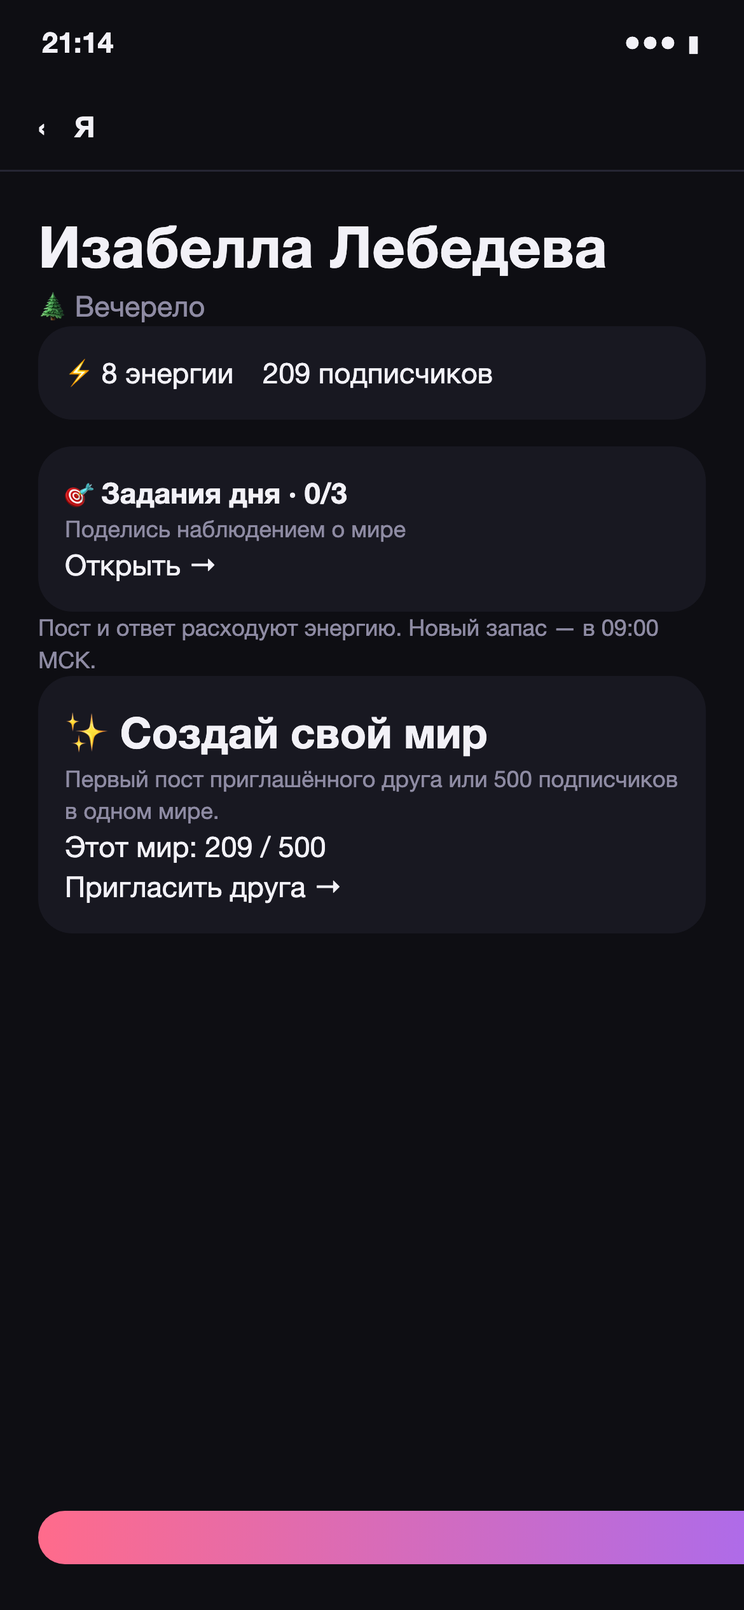
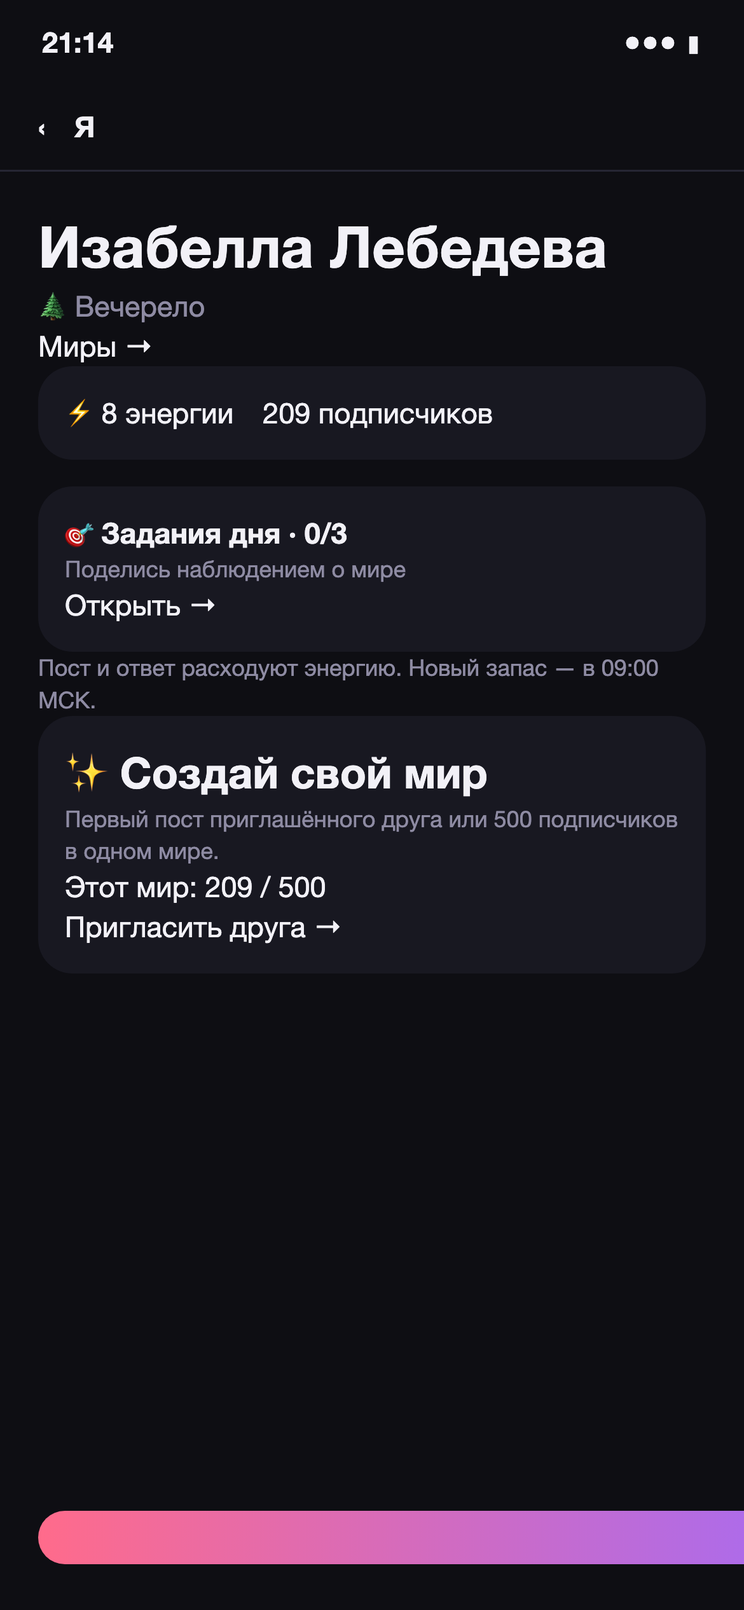
Clarify world navigation and confirmed unlock celebration #141 #124 #135

Changed region(s): [[0.0308, 0.1872, 0.8923, 0.5928], [0.8, 0.3744, 0.8923, 0.4368]]

diff --git a/frontend/src/screens/turn.tsx b/frontend/src/screens/turn.tsx
@@ -85,10 +85,7 @@ function Live() {
         if (apiBaseUrl) {
           const latest = await refresh()
           if (latest) confirmedResult = { ...e.result, completedWants: latest.wants.filter(want => want.done && p.wants.some(before => before.id === want.id && !before.done)).map(({ id, text, reward }) => ({ id, text, reward })) }
-          if (!p.hitOwnWorldMilestone && latest?.hitOwnWorldMilestone) {
-            selectDraftOwner(p.id); setWorldDraft({ definition: blankWorld(), previewOnly: true, address: p.address, group: p.ageBand === '14-17' ? '14-17' : '18+', ageBand: p.ageBand, reason: 'Создание своего мира открыто — можно придумать свою историю' })
-            nav.replace('05-7b_own_world', { world: 'own' }); return
-          }
+
         }
         else patch({ postsLeft: Math.max(0, p.postsLeft - 1), subs: Math.max(0, p.subs + e.result.delta) })
         nav.replace(e.result.viral ? '02-5_viral' : e.result.flop ? '02-4_flop' : '02-3_result', { result: confirmedResult, post })
@@ -166,7 +163,6 @@ const haptic = (kind: 'success' | 'warning' | 'light') => { if (!inTelegram) ret
 
 function ResultCard({ r, post, theme }: { r: PostResult; post: Post; theme: 'normal' | 'flop' | 'viral' }) {
   const nav = useNav()
-  const playerWorld = usePlayer().world
   const viral = theme === 'viral'
   const shown = useCount(Math.abs(r.delta))
   const additive = r.whys.filter(why => /^[+−-]\d+(?:[.,]\d+)?$/.test(why.value))
@@ -181,11 +177,11 @@ function ResultCard({ r, post, theme }: { r: PostResult; post: Post; theme: 'nor
           <div className="small" style={{ letterSpacing: '.06em', color: viral ? 'var(--gift)' : 'var(--muted2)' }}>{viral ? '🌊 ПОСТ ЗАЛЕТЕЛ В РЕКИ' : 'ИТОГ ПОСТА'}</div>
           <div style={{ fontSize: 64, fontWeight: 900, lineHeight: 1.1 }} className={r.delta >= 0 ? 'up' : 'down'}>{r.delta >= 0 ? '+' : '−'}{fmt(shown)}</div>
           <div className="muted2" style={{ marginBottom: 12 }}>{plural(shown, 'подписчик', 'подписчика', 'подписчиков')}</div>
-          <div style={{ fontSize: 18, fontWeight: 800, marginBottom: 12 }}>{r.headline}</div>
+          <div style={{ fontSize: 18, fontWeight: 800, marginBottom: 12 }}>{viral ? r.headline : r.delta > 0 ? "Твой пост заметили ✨" : r.headline}</div>
           {viral && <div className="confetti" aria-hidden>{Array.from({ length: 18 }, (_, i) => <i key={i} style={{ left: `${(i * 53) % 100}%`, animationDelay: `${(i % 6) * 0.12}s`, background: ['#FF6B8B', '#9B6BFF', '#FFD66B', '#6BFFB8'][i % 4] }} />)}</div>}
-          {r.whys[0] && <div className="result-reason"><div className="small eyebrow">{contentOf(playerWorld).stars.find(star => star.avatarSeed === r.bestComment?.avatar)?.name ?? "Реакция героя"}</div><p>{r.whys[0].label}</p></div>}
+
           <div className="result-awards" aria-live="polite">{r.completedWants?.map(want => <div className="result-task" key={want.id}><span>✅</span><div><b>Задание выполнено</b><p>{want.text}</p><span className="small">{want.reward}</span></div></div>)}{r.ribbons.map(award => <Ribbon key={award.title} icon={award.icon} title={award.title} sub={award.sub} />)}</div>
-          <details className="result-details"><summary>За что этот результат?</summary>          <div>{r.whys.map((w, i) => <span key={w.label} className="chip pop" style={{ background: '#22222D', animationDelay: `${0.85 + i * 0.15}s` }}>{({ star: '⭐', brave: '🔥', humor: '😂', topic: '🎯', reach: '👁' } as Record<string, string>)[w.icon] ?? w.icon} {w.label} {(!/^[+−-]/.test(w.value) || explainsDelta) && <b className={/^[+×]/.test(w.value) ? 'up' : 'down'}>{w.value}</b>}</span>)}</div>
+          <details className="result-details"><summary>Разбор поста</summary>          <div>{r.whys.map((w, i) => <span key={w.label} className="chip pop" style={{ background: '#22222D', animationDelay: `${0.85 + i * 0.15}s` }}>{({ star: '⭐', brave: '🔥', humor: '😂', topic: '🎯', reach: '👁' } as Record<string, string>)[w.icon] ?? w.icon} {w.label} {(!/^[+−-]/.test(w.value) || explainsDelta) && <b className={/^[+×]/.test(w.value) ? 'up' : 'down'}>{w.value}</b>}</span>)}</div>
           {r.bestComment && <div className="row" style={{ margin: '8px 0 12px' }}><Avatar seed={r.bestComment.avatar} size={28} /><span className="small">«{r.bestComment.text}»</span></div>}
           </details>
           {viral ? <>
@@ -194,7 +190,7 @@ function ResultCard({ r, post, theme }: { r: PostResult; post: Post; theme: 'nor
             <Button secondary onClick={() => nav.replace('03-5_stage')}>Дальше</Button>
           </> : <>
             <Button onClick={() => nav.replace('02-6_thread', { post })}>Посмотреть реакции</Button>
-            {theme === 'normal' && <><button onClick={() => nav.push('02-7_share', { post })} style={{ display: 'block', margin: '10px auto 4px', background: 'none', border: 'none', color: 'var(--lilac)' }}>Поделиться в чат или сторис ›</button>
+            {theme === 'normal' && <><button onClick={() => nav.push('02-7_share', { post })} aria-label="Поделиться постом" className="result-share">↗ Поделиться</button>
               </>}
           </>}
         </div>
@@ -320,7 +316,7 @@ function Thread() {
   post.comments.forEach(append)
   return (
     <div className="screen no-tab">
-      <TopBar onBack={goBack} title="Реакции" rightPlain right={<button className="thread-exit" onClick={() => nav.replace('03-3_feed')}>В ленту →</button>} />
+      <TopBar title="Реакции" rightPlain right={<button className="thread-exit" onClick={() => nav.replace('03-5_stage')}>В канал →</button>} />
       <div className="pad">
         <div className="card" style={{ marginBottom: 12 }}>{post.text}<div style={{ marginTop: 8 }}>{post.reactions.map(reaction => <span key={reaction.emoji} className="react">{reaction.emoji} {reaction.count}</span>)}</div></div>
         {canReply && showHelp && <div className="thread-help"><span className="thread-help-icon">💬</span><div><b>Герой ждёт ответа</b><p>Нажми «Ответить» под репликой и продолжи историю.</p><span className="small muted">Ответ · 1 энергия</span></div><button aria-label="Скрыть подсказку" onClick={dismissHelp}>×</button></div>}
@@ -333,6 +329,7 @@ function Thread() {
         {sending && <div className="card" role="status" aria-live="polite"><div className="small muted">{target?.author ?? 'Звезда'} готовит ответ…</div><div className="live-current" aria-hidden="true"><span /></div>{preview && <><p>{preview}</p><div className="small muted">Ответ ещё не опубликован</div></>}</div>}
         {target && <div className="small muted" style={{ marginBottom: 8 }}>Отвечаешь: {target.author}</div>}
         {replyError && <div className="small" role="alert" style={{ color: 'var(--accent)', marginBottom: 12 }}>{replyError}</div>}
+        <Button secondary disabled={sending} onClick={() => nav.replace('02-1_compose')}>Написать следующий пост</Button>
       </div>
       {canReply && <div className="bottom-cta" style={{ flexDirection: 'row' }}>
         <div className="card" style={{ flex: 1, padding: '12px 14px' }}><input className="thread-reply-input" value={draft.text} onChange={event => edit({ text: event.target.value })} placeholder={draft.commentId ? 'Ответ · 1 энергия' : 'Выбери комментарий'} maxLength={1000} disabled={!draft.commentId || sending} /></div>

diff --git a/frontend/src/screens/worldWizard.tsx b/frontend/src/screens/worldWizard.tsx
@@ -14,13 +14,13 @@ import type { AgeBand } from '../app/ageBand'
 
 export function ChooseWorld() {
   const nav = useNav(); const { player, setPlayer } = useStore()
-  const [owned, setOwned] = useState<WorldDocument[]>([])
+  const [owned, setOwned] = useState<WorldDocument[]>(() => api.ownedWorldsSnapshot() ?? [])
   const [error, setError] = useState('')
-  useEffect(() => { if (player) api.ownedWorlds().then(setOwned).catch(() => setError('Не получилось загрузить твои миры.')) }, [player?.id]) // eslint-disable-line react-hooks/exhaustive-deps
+  useEffect(() => { let alive = true; if (player) api.ownedWorlds().then(found => { if (alive) setOwned(found) }).catch(() => { if (alive) setError('Не получилось загрузить твои миры.') }); return () => { alive = false } }, [player?.id]) // eslint-disable-line react-hooks/exhaustive-deps
   function start(world?: WorldId, previewOnly = false) {
     selectDraftOwner(player?.id ?? 'onboarding')
     const definition = world ? worldDefinitionOf(world) : blankWorld()
-    setWorldDraft({ definition, heroOrder: definition.stars.map(star => star.id), advanced: false, previewOnly, address: player?.address ?? 'nick', group: player?.ageBand ? (player.ageBand === '14-17' ? '14-17' : '18+') : (nav.params.group as '14-17' | '18+') ?? '14-17', ageBand: player?.ageBand ?? nav.params.ageBand as AgeBand | undefined })
+    setWorldDraft({ definition, heroOrder: definition.stars.map(star => star.id), advanced: !world && !previewOnly, previewOnly, address: player?.address ?? 'nick', group: player?.ageBand ? (player.ageBand === '14-17' ? '14-17' : '18+') : (nav.params.group as '14-17' | '18+') ?? '14-17', ageBand: player?.ageBand ?? nav.params.ageBand as AgeBand | undefined })
     nav.push(world ? '01-3b_world_overview' : '05-7b_own_world', { world: definition.balanceKey })
   }
   return <div className="screen no-tab"><TopBar title="Выбери мир" onBack={nav.canBack ? nav.back : undefined} />
@@ -31,7 +31,7 @@ export function ChooseWorld() {
         {art && <div className="world-cover-image"><img src={art.cover} alt="" loading="lazy" /><span className="world-genre">{world.emoji} {art.genre}</span></div>}
         <div className="world-cover-copy"><div className="row"><b>{world.title}</b><span className="small muted">{['', 'Легко', 'Средне', 'Сложно'][world.difficulty]}</span></div><p>{art?.pitch ?? world.summary}</p><div className="world-roster">{definition.stars.slice(0, 3).map(star => <Avatar key={star.id} seed={star.avatarSeed} avatarStyle={definition.avatarStyle} profile={{ address: star.appearanceProfile === 'masculine' ? 'he' : star.appearanceProfile === 'feminine' ? 'she' : 'nick', ageBand: star.ageBand }} size={26} />)}<span>Знакомиться с миром →</span></div></div>
       </button> })}</div>
-      <div className="card own-world-unlock"><h2>✦ Создай свой мир</h2>{player?.hitOwnWorldMilestone ? <><p className="small muted">Придумай место, героев и начало истории.</p><Button onClick={() => start(undefined, true)}>Создать свой мир</Button></> : <><p className="small muted own-unlock-summary">Откроется после 500 подписчиков в одном канале или после первого поста приглашённого друга.</p>{player && <><progress aria-label="Подписчики до открытия своего мира" value={Math.min(500, Math.max(player.subs, ...owned.map(world => world.subscribers)))} max={500} /><span className="small muted">{Math.min(500, Math.max(player.subs, ...owned.map(world => world.subscribers)))} / 500</span><button className="text-link" onClick={() => nav.push('04-3_invite')}>Пригласить друга →</button></>}</>}
+      <div className="card own-world-unlock"><h2>✦ Создай свой мир</h2>{player?.hitOwnWorldMilestone ? <><p className="small muted">Придумай место, героев и начало истории.</p><Button onClick={() => start()}>Создать свой мир</Button></> : <><p className="small muted own-unlock-summary">Откроется после 500 подписчиков в одном канале или после первого поста приглашённого друга.</p>{player && <><progress aria-label="Подписчики до открытия своего мира" value={Math.min(500, Math.max(player.subs, ...owned.map(world => world.subscribers)))} max={500} /><span className="small muted">{Math.min(500, Math.max(player.subs, ...owned.map(world => world.subscribers)))} / 500</span><button className="text-link" onClick={() => nav.push('04-3_invite')}>Пригласить друга →</button></>}</>}
         {isDevWorldPrototype && new URLSearchParams(location.search).has('devtools') && <details className="editor-extra"><summary>DEV: пример настройки</summary><Button secondary onClick={() => start(undefined, true)}>Попробовать быструю настройку · DEV</Button></details>}
       </div>
       {error && <p role="alert">{error}</p>}

diff --git a/frontend/src/screens/day.tsx b/frontend/src/screens/day.tsx
@@ -10,6 +10,7 @@ import { runtimeConfig } from '../app/runtimeConfig'
 import { SkillHelp } from '../ui/SkillHelp'
 import { usePlayer, useStore } from '../app/store'
 import { Avatar, Bubble, Button, Card, Chip, Gift, Segmented, SkillBar, Sheet, TopBar, fmt, short } from '../ui'
+import { beginOwnWorld } from '../app/worldDraft'
 import { ChannelHead, Home } from './onboarding'
 import { register } from '.'
 import { TextField } from '../ui/TextField'
@@ -257,13 +258,13 @@ function Me() {
   return (
     <div className="screen">
       <div className="top" style={{ border: 'none' }}><b style={{ fontSize: 18 }}>Я</b><button className="pill" onClick={() => nav.push('05-8_settings')} style={{ border: 'none' }}>⚙ Настройки</button></div>
-      <div style={{ padding: '0 16px', textAlign: 'center' }}><Avatar seed={p.handle} size={64} style={{ margin: '0 auto 6px' }} /><b style={{ fontSize: 18 }}>{p.name}</b><div className="muted small">{worldOf(p.world).emoji} {worldOf(p.world).title}</div></div>
+      <div style={{ padding: '0 16px', textAlign: 'center' }}><Avatar seed={p.handle} size={64} style={{ margin: '0 auto 6px' }} /><b style={{ fontSize: 18 }}>{p.name}</b><div className="small muted profile-world-name">{worldOf(p.world).emoji} {worldOf(p.world).title}</div><button className="worlds-entry profile-worlds-entry" onClick={() => nav.push('01-3_world')}>Миры →</button></div>
       <div className="pad">
         <div className="profile-stats">
           {[[`⚡ ${p.postsLeft}`, 'энергии'], [fmt(p.subs), 'подписчиков']].map(([v, l]) => <Card key={l} style={{ padding: 14, textAlign: 'center' }}><div style={{ fontWeight: 800, fontSize: 16 }}>{v}</div><div className="small muted">{l}</div></Card>)}
         </div>
         <div className="profile-task-row"><div><b>🎯 Задания дня · {p.wants.filter(w => w.done).length}/{p.wants.length}</b><p className="small muted">{p.wants.find(w => !w.done)?.text ?? "Все задания выполнены"}</p></div><button className="text-link small" onClick={() => nav.push('02-1_compose')}>Открыть →</button></div><p className="small muted energy-help">Пост и ответ расходуют энергию. Новый запас — в 09:00 МСК.</p>
-        <Card style={{ marginBottom: 18 }}><b>{p.hitOwnWorldMilestone ? '✨ Свой мир открыт' : '✨ Создай свой мир'}</b><p className="small muted">{p.hitOwnWorldMilestone ? 'Доступ подтверждён. Можно придумать свою историю.' : 'Первый пост приглашённого друга или 500 подписчиков в одном мире.'}</p>{!p.hitOwnWorldMilestone && <><progress aria-label="Подписчики до открытия своего мира" value={Math.min(500, p.subs)} max={500} /><div className="small muted">Этот мир: {Math.min(500, p.subs)} / 500</div></>}<button className="text-link" onClick={() => nav.push(p.hitOwnWorldMilestone ? '01-3_world' : '04-3_invite')}>{p.hitOwnWorldMilestone ? 'Выбрать историю →' : 'Пригласить друга →'}</button></Card>
+        <Card style={{ marginBottom: 18 }}><b>{p.hitOwnWorldMilestone ? '✨ Свой мир открыт' : '✨ Создай свой мир'}</b><p className="small muted">{p.hitOwnWorldMilestone ? 'Доступ подтверждён. Можно придумать свою историю.' : 'Первый пост приглашённого друга или 500 подписчиков в одном мире.'}</p>{!p.hitOwnWorldMilestone && <><progress aria-label="Подписчики до открытия своего мира" value={Math.min(500, p.subs)} max={500} /><div className="small muted">Этот мир: {Math.min(500, p.subs)} / 500</div></>}<button className="text-link" onClick={() => { if (p.hitOwnWorldMilestone) { beginOwnWorld(p); nav.push('05-7b_own_world', { world: 'own' }) } else nav.push('04-3_invite') }}>{p.hitOwnWorldMilestone ? 'Создать свой мир →' : 'Пригласить друга →'}</button></Card>
         <Card style={{ marginBottom: 10 }}>
           <div className="row" style={{ justifyContent: 'space-between', marginBottom: 8 }}><b>Серия {p.streak.days} дня</b><span className="small" style={{ color: 'var(--gift)' }}>{p.streak.nextReward}</span></div>
           <div style={{ display: 'flex', gap: 6 }}>{DAYS.map((d, i) => <div key={d} style={{ flex: 1, textAlign: 'center' }}><div style={{ height: 30, borderRadius: 9, display: 'flex', alignItems: 'center', justifyContent: 'center', fontSize: 14, ...(p.streak.week[i] ? { background: 'var(--grad)' } : i === today ? { border: '2px dashed var(--accent)' } : { background: '#20202B' }) }}>{p.streak.week[i] ? '🔥' : i === today ? '?' : ''}</div><div className="small muted" style={{ marginTop: 3 }}>{d}</div></div>)}</div>

diff --git a/frontend/src/app/store.tsx b/frontend/src/app/store.tsx
@@ -4,7 +4,8 @@ import { api } from '../api/client'
 import type { Player } from '../api/types'
 
 export type PlayerState = 'loading' | 'ready' | 'missing' | 'failed'
-interface Store { player: Player | null; playerState: PlayerState; setPlayer: (p: Player) => void; patch: (p: Partial<Player>) => void; refresh: () => Promise<Player | undefined> }
+interface Store { player: Player | null; playerState: PlayerState; setPlayer: (p: Player) => void; patch: (p: Partial<Player>) => void; refresh: () => Promise<Player | undefined>; unlockCelebration: boolean; dismissUnlockCelebration: () => void }
+const unlockSeen = new Set<string>()
 const Ctx = createContext<Store>(null!)
 export const useStore = () => useContext(Ctx)
 export const usePlayer = () => useContext(Ctx).player!
@@ -12,20 +13,37 @@ export const usePlayer = () => useContext(Ctx).player!
 export function StoreProvider({ children }: { children: ReactNode }) {
   const [player, setPlayerValue] = useState<Player | null>(null)
   const [playerState, setPlayerState] = useState<PlayerState>('loading')
-  const setPlayer = (value: Player) => { selectDraftOwner(value.id); setPlayerValue(value); setPlayerState('ready') }
+  const [unlockPlayerId, setUnlockPlayerId] = useState<string | null>(null)
+  const setPlayer = useCallback((value: Player) => {
+    selectDraftOwner(value.id); setPlayerValue(value); setPlayerState('ready')
+    let seen = unlockSeen.has(value.id)
+    try { seen ||= localStorage.getItem(`reki:own-world-unlock-seen:${value.id}`) === '1' } catch { /* session fallback */ }
+    setUnlockPlayerId(value.hitOwnWorldMilestone && !seen ? value.id : null)
+  }, [])
+  const dismissUnlockCelebration = () => {
+    if (unlockPlayerId) {
+      unlockSeen.add(unlockPlayerId)
+      try { localStorage.setItem(`reki:own-world-unlock-seen:${unlockPlayerId}`, '1') } catch { /* session fallback */ }
+    }
+    setUnlockPlayerId(null)
+  }
   /** Reconciles player state with /me. On failure keeps an already ready player untouched. */
   const refresh = useCallback(async () => {
     try {
       const next = await api.me()
-      selectDraftOwner(next.id)
-      setPlayerValue(next)
-      setPlayerState('ready')
+      setPlayer(next)
       return next
     } catch (e) {
       selectDraftOwner(api.playerId() ?? 'onboarding')
       setPlayerState(prev => prev === 'ready' ? 'ready' : (e as { status?: number })?.status === 404 ? 'missing' : 'failed')
     }
-  }, [])
+  }, [setPlayer])
   useEffect(() => { void refresh() }, [refresh])
-  return <Ctx.Provider value={{ player, playerState, setPlayer, patch: p => setPlayerValue(cur => cur && { ...cur, ...p }), refresh }}>{children}</Ctx.Provider>
+  useEffect(() => {
+    const check = () => { if (!document.hidden && api.hasPlayer()) void refresh() }
+    window.addEventListener('focus', check); document.addEventListener('visibilitychange', check)
+    const timer = window.setInterval(check, 30000)
+    return () => { clearInterval(timer); window.removeEventListener('focus', check); document.removeEventListener('visibilitychange', check) }
+  }, [refresh])
+  return <Ctx.Provider value={{ player, playerState, setPlayer, patch: p => setPlayerValue(cur => cur && { ...cur, ...p }), refresh, unlockCelebration: !!unlockPlayerId, dismissUnlockCelebration }}>{children}</Ctx.Provider>
 }

diff --git a/frontend/src/api/client.ts b/frontend/src/api/client.ts
@@ -13,6 +13,7 @@ import type { PlayerDocument, Challenge, ChannelPost, Dm, FeedItem, Friend, Game
 
 let sessionPlayer: Player | undefined
 let sessionIdentity: PlayerDocument | undefined
+let ownedWorldSnapshot: WorldDocument[] | undefined
 let templates: WorldDocument[] = []
 let templatesRequest: Promise<void> | undefined
 const inWorld = (path: string): string => {
@@ -86,9 +87,11 @@ async function loadPlayer(worldId?: string): Promise<Player> {
     return rememberPlayer(await laterLazy(demoPlayer))
   }
   const player = await call<PlayerDocument>('/me')
+  if (sessionIdentity?.id !== player.id) ownedWorldSnapshot = undefined
   sessionIdentity = player
   setTelemetryPlayerAvailable(true)
   const ownedWorlds = await call<WorldDocument[]>('/worlds')
+  ownedWorldSnapshot = ownedWorlds
   let selected: string | undefined
   try { selected = localStorage.getItem(`reki:selected-world:${player.id}`) ?? undefined } catch { /* memory fallback */ }
   const world = ownedWorlds.find(item => item.id === (worldId ?? sessionPlayer?.worldInstanceId ?? selected)) ?? ownedWorlds[0]
@@ -353,7 +356,8 @@ export const api = {
   answerEvent: (id: string, text: string) => BASE ? call(inWorld(`/events/${id}/answer`), { method: 'POST', body: JSON.stringify({ text }) }) : later({ ok: true }),
   challenge: (): Promise<Challenge | null> => BASE ? call('/challenges/active') : later(mock.challenge),
   startChallenge: (friendId: string) => BASE ? call('/challenges', { method: 'POST', body: JSON.stringify({ friendId }) }) : later({ ok: true }),
-  ownedWorlds: (): Promise<WorldDocument[]> => BASE ? call('/worlds') : later(sessionPlayer ? [worldDocumentOf(sessionPlayer.world)] : []),
+  ownedWorldsSnapshot: (): WorldDocument[] | undefined => ownedWorldSnapshot ? structuredClone(ownedWorldSnapshot) : undefined,
+  ownedWorlds: async (): Promise<WorldDocument[]> => { const found = BASE ? await call<WorldDocument[]>('/worlds') : await later(sessionPlayer ? [worldDocumentOf(sessionPlayer.world)] : []); ownedWorldSnapshot = found; return found },
   saveWorld: async (worldId: string, definition: WorldDefinition): Promise<Player> => {
     if (BASE) {
       await call(`/worlds/${encodeURIComponent(worldId)}`, { method: 'PUT', body: JSON.stringify(definition) })
@@ -369,5 +373,5 @@ export const api = {
     const { id, subscribers: _subs, lock: _lock, ...definition } = current
     return api.saveWorld(id, { ...definition, ...patch })
   },
-  deleteAccount: async () => { if (BASE) await call('/me', { method: 'DELETE' }); if (sessionIdentity) { clearPlayerDrafts(sessionIdentity.id); try { localStorage.removeItem(`reki:selected-world:${sessionIdentity.id}`) } catch { /* optional storage */ } } resetDemoPlayer(sessionPlayer?.id); sessionPlayer = undefined; sessionIdentity = undefined; setTelemetryPlayerAvailable(false); setAnalyticsWorld(undefined) },
+  deleteAccount: async () => { if (BASE) await call('/me', { method: 'DELETE' }); if (sessionIdentity) { clearPlayerDrafts(sessionIdentity.id); try { localStorage.removeItem(`reki:selected-world:${sessionIdentity.id}`) } catch { /* optional storage */ } } resetDemoPlayer(sessionPlayer?.id); sessionPlayer = undefined; sessionIdentity = undefined; ownedWorldSnapshot = undefined; setTelemetryPlayerAvailable(false); setAnalyticsWorld(undefined) },
 }

diff --git a/frontend/src/app/WorldUnlockCelebration.tsx b/frontend/src/app/WorldUnlockCelebration.tsx
@@ -1,0 +1,46 @@
+import { useEffect, useRef, useState } from 'react'
+import { useNav } from './nav'
+import { useStore } from './store'
+import { beginOwnWorld } from './worldDraft'
+import { Button } from '../ui'
+
+export function WorldUnlockCelebration() {
+  const { player, unlockCelebration, dismissUnlockCelebration } = useStore()
+  const nav = useNav()
+  const [preview, setPreview] = useState(() => import.meta.env.DEV && new URLSearchParams(location.search).get('preview') === 'world-unlock')
+  const dismiss = () => { if (preview) setPreview(false); else dismissUnlockCelebration() }
+  const dialog = useRef<HTMLDivElement>(null)
+  const close = useRef<HTMLButtonElement>(null)
+  const safe = ['01-3_world', '01-6_home', '03-5_stage', '05-5_collection', '05-11_world_rules', '02-3_result', '02-4_flop', '02-5_viral'].includes(nav.current)
+  const visible = preview || (!!player && unlockCelebration && safe)
+  useEffect(() => {
+    if (!visible) return
+    const previous = document.activeElement as HTMLElement | null
+    close.current?.focus()
+    const previousOverflow = document.body.style.overflow
+    document.body.style.overflow = 'hidden'
+    const escape = (event: KeyboardEvent) => {
+      if (event.key === 'Escape') dismiss()
+      if (event.key === 'Tab') {
+        const buttons = dialog.current?.querySelectorAll<HTMLButtonElement>('button')
+        if (!buttons?.length) return
+        const first = buttons[0], last = buttons[buttons.length - 1]
+        if (event.shiftKey && document.activeElement === first) { event.preventDefault(); last.focus() }
+        else if (!event.shiftKey && document.activeElement === last) { event.preventDefault(); first.focus() }
+      }
+    }
+    window.addEventListener('keydown', escape)
+    return () => { window.removeEventListener('keydown', escape); document.body.style.overflow = previousOverflow; previous?.focus() }
+  }, [visible]) // eslint-disable-line react-hooks/exhaustive-deps
+  if (!visible) return null
+  return <div className="sheet-bg unlock-overlay"><div ref={dialog} className="sheet unlock-celebration" role="dialog" aria-modal="true" aria-labelledby="world-unlock-title">
+    <button ref={close} className="unlock-close" aria-label="Закрыть поздравление" onClick={dismiss}>×</button>
+    <div className="unlock-sparkles" aria-hidden="true">✨ 🌍 ✨</div>
+    <span className="badge">НОВАЯ ВОЗМОЖНОСТЬ</span>
+    <h1 id="world-unlock-title">Свой мир открыт!</h1>
+    <p>Придумай место, героев и историю, которая будет только твоей.</p>
+    <Button onClick={() => { dismiss(); if (preview || !player) { nav.push('01-3_world'); return }; beginOwnWorld(player); nav.push('05-7b_own_world', { world: 'own' }) }}>Создать свой мир</Button>
+    <Button secondary onClick={dismiss}>Продолжить историю</Button>
+    <p className="small muted">Доступ сохранён. Создать мир можно и позже — в разделе «Миры».</p>
+  </div></div>
+}

diff --git a/frontend/src/theme.css b/frontend/src/theme.css
@@ -288,3 +288,29 @@ progress { width: 100%; height: 8px; accent-color: #b389ff; margin: 10px 0; }
 .first-story > .btn { width: calc(100% - 40px); }
 .top-action { margin-left: auto; }
 summary:focus-visible { outline: 2px solid var(--lilac); outline-offset: 4px; border-radius: 6px; }
+
+.channel-world-link { padding: 0; border: 0; background: none; color: inherit; font: inherit; cursor: pointer; text-align: left; }
+.channel-world-link::after { content: ' ▾'; color: #C5A0FF; }
+.unlock-overlay { align-items: center; z-index: 50; backdrop-filter: blur(6px); }
+.unlock-celebration { position: relative; text-align: center; margin: 16px; padding: 36px 24px 24px; border: 1px solid #A879FA; background: radial-gradient(ellipse at top, #443052 0%, #1A1A24 65%); box-shadow: 0 0 70px #9D63FF26; animation: unlock-arrive .45s ease-out both; }
+.unlock-close { position: absolute; top: 10px; right: 14px; border: 0; background: none; color: #AAA5BC; font-size: 28px; cursor: pointer; }
+.unlock-sparkles { font-size: 44px; margin-bottom: 18px; }
+.unlock-celebration h1 { font-size: 30px; margin: 16px 0 12px; }
+.unlock-celebration p { margin: 0 0 24px; }
+.unlock-celebration .btn { margin-top: 12px; }
+.unlock-celebration p.small { margin: 20px 0 0; }
+.result-share { display: block; margin: 14px auto 0; padding: 8px; border: 0; background: none; color: #C5A0FF; font: inherit; cursor: pointer; }
+@keyframes unlock-arrive { from { opacity: 0; transform: translateY(24px) scale(.95); } to { opacity: 1; transform: none; } }
+@media (prefers-reduced-motion: reduce) { .unlock-celebration { animation: none; } }
+
+.worlds-entry { display: inline-block; margin: 6px 0 0 8px; padding: 4px 10px; border: 1px solid #685383; border-radius: 999px; background: #282033; color: #D8BFFF; font: inherit; font-size: 12px; font-weight: 600; cursor: pointer; white-space: nowrap; }
+.worlds-entry:hover { background: #352947; }
+.profile-world-name { margin-top: 6px; }
+.profile-worlds-entry { margin: 12px 0 4px; padding: 8px 18px; font-size: 14px; }
+.worlds-arrival { animation: worlds-arrive .24s ease-out both; }
+@keyframes worlds-arrive { from { opacity: 0; transform: translateY(8px); } to { opacity: 1; transform: none; } }
+@media (prefers-reduced-motion: reduce) { .worlds-arrival { animation: none; } }
+
+.channel-header-copy { flex: 1; min-width: 0; }
+.channel-worlds-entry { margin: 8px 0 0; padding: 5px 12px; }
+.channel-header > .pill { flex-shrink: 0; }

diff --git a/frontend/src/App.tsx b/frontend/src/App.tsx
@@ -7,6 +7,7 @@ import { setScreen } from './app/log'
 import { TelegramLaunch } from './app/TelegramLaunch'
 import { inTelegram, syncBackButton } from './telegram'
 import { api } from './api/client'
+import { WorldUnlockCelebration } from './app/WorldUnlockCelebration'
 import { runtimeConfig } from './app/runtimeConfig'
 import { AvatarWorld, AvatarPeople } from './ui/avatar'
 import { worldDocumentOf } from './api/worldContent'
@@ -53,7 +54,7 @@ function Shell() {
     return () => { current = false }
   }, [explicitStart, playerState, top.id])
   const back = useCallback(() => nav.back(), [nav])
-  useEffect(() => syncBackButton(stack.length > 1, back), [stack.length, back])
+  useEffect(() => syncBackButton(stack.length > 1 && top.id !== '02-6_thread', back), [stack.length, top.id, back])
 
   const Screen = SCREENS[top.id]?.component
   const resolvingExistingPlayer = playerState === 'ready' && !explicitStart && top.id === '01-1_invite'
@@ -70,7 +71,7 @@ function Shell() {
     <NavContext.Provider value={nav}>
       <AvatarWorld.Provider value={(top.params.world as WorldId) ?? player?.world ?? 'stage'}>
       <AvatarPeople.Provider value={people}><div className="app">
-        <Screen />
+        <div key={top.id} className={top.id === '01-3_world' ? 'worlds-arrival' : undefined}><Screen /></div><WorldUnlockCelebration />
         {tab !== undefined && (
           <nav className="tabbar">
             {TABS.map((t, i) => (i === 2 && !runtimeConfig.features.dm) || (i === 3 && !runtimeConfig.features.friends) ? null : <button key={t.title} className={i === tab ? 'on' : ''} onClick={() => { tap('tab', { to: t.screen }); nav.tab(i) }}><b>{t.icon}</b>{t.title}</button>)}

diff --git a/frontend/src/app/worldDraft.ts b/frontend/src/app/worldDraft.ts
@@ -1,5 +1,5 @@
 import { useSyncExternalStore } from 'react'
-import type { Address, WorldDefinition } from '../api/types'
+import type { Address, Player, WorldDefinition } from '../api/types'
 import type { AgeBand } from './ageBand'
 export interface WorldDraft {
   definition: WorldDefinition; heroOrder?: string[]; advanced?: boolean; previewOnly?: boolean; persona?: { star: WorldDefinition['stars'][number]; description: string; name: string; avatar: string; role: string }; editingId?: string; reason?: string; address: Address; group: '14-17' | '18+'; ageBand?: AgeBand
@@ -25,4 +25,10 @@ export function blankWorld(): WorldDefinition {
   return { balanceKey: 'own', title: '', emoji: '✨', description: '', where: '', difficulty: 1, summary: 'Твоя история', avatarStyle: 'lorelei',
     name: '', avatar: '', role: '', voice: '', drama: 'soft', roles: [], voices: [], postIdeas: [], demoPosts: [], firstContext: '', firstPrompt: '',
     rules: [{ text: 'Без тем 18+ и травли по внешности', locked: true }], stars: [], wants: [], achievements: [] }
+}
+
+/** Start the full editor supported by POST /worlds. AI quick setup remains a separate demo. */
+export function beginOwnWorld(player: Player) {
+  selectDraftOwner(player.id)
+  setWorldDraft({ definition: { ...blankWorld(), name: player.name, avatar: player.handle, role: player.role }, advanced: true, previewOnly: false, address: player.address, group: player.ageBand === '14-17' || !player.ageBand ? '14-17' : '18+', ageBand: player.ageBand })
 }

diff --git a/frontend/src/screens/onboarding.tsx b/frontend/src/screens/onboarding.tsx
@@ -89,12 +89,12 @@ function Under14() {
 
 // 01-6: первый экран: цель, квест, что такое Реки / навыки / коллекция
 export function ChannelHead() {
-  const p = useStore().player!
+  const p = useStore().player!; const nav = useNav()
   const w = worldOf(p.world)
   return (
-    <div className="top">
+    <div className="top channel-header">
       <Avatar seed={p.handle} size={36} />
-      <div><b>{p.name}</b><div className="muted small">{fmt(p.subs)} подписчиков · {w.emoji} {w.title}</div></div>
+      <div className="channel-header-copy"><b>{p.name}</b><div className="muted small">{fmt(p.subs)} подписчиков · {w.emoji} {w.title}</div><button className="worlds-entry channel-worlds-entry" onClick={() => nav.push('01-3_world')}>Миры →</button></div>
       <div className="pill">⚡ {p.postsLeft} энергии</div>
     </div>
   )

diff --git a/docs/design/src/journey_v23.py b/docs/design/src/journey_v23.py
@@ -1,0 +1,5 @@
+# Approved world navigation and voluntary unlock celebration, 13.10.2026.
+S['01-3_world'] = S['01-3_world'].replace('Выбери мир', 'Миры').replace('Выбрать мир и начать игру', 'Создать свой мир')
+S['05-5_collection'] = S['05-5_collection'].replace('<p class="muted">🌲 Вечерело</p>', '<p class="muted">🌲 Вечерело</p><p>Миры →</p>')
+S['02-6_thread'] = S['02-6_thread'].replace('В ленту →', 'В канал →').replace('</main>', '<p>Написать следующий пост</p></main>')
+S['05-7d_world_unlock'] = release_page('✨ 🌍 ✨', '<div class="card"><p class="small muted">НОВАЯ ВОЗМОЖНОСТЬ</p><h1>Свой мир открыт!</h1><p>Придумай место, героев и историю, которая будет только твоей.</p><div class="btn">Создать свой мир</div><p>Продолжить историю</p><p class="small muted">Доступ сохранён. Создать мир можно и позже — в разделе «Миры».</p></div>', '')

diff --git a/docs/design/src/build_journey.py b/docs/design/src/build_journey.py
@@ -326,6 +326,8 @@ exec(open(os.path.join(D, 'journey_v20.py'), encoding='utf-8').read())  # Compac
 exec(open(os.path.join(D, 'journey_v21.py'), encoding='utf-8').read())  # Follow-up DEV review
 exec(open(os.path.join(D, 'journey_v22.py'), encoding='utf-8').read())  # Story art and clearer actions
 
+exec(open(os.path.join(D, 'journey_v23.py'), encoding='utf-8').read())  # World navigation and unlock
+
 CH = os.environ.get('CHROME_BIN') or shutil.which('google-chrome') or shutil.which('chrome')
 if not CH and os.name == 'nt':
     CH = os.path.join(os.environ.get('PROGRAMFILES', 'C:\\Program Files'), 'Google', 'Chrome', 'Application', 'chrome.exe')
